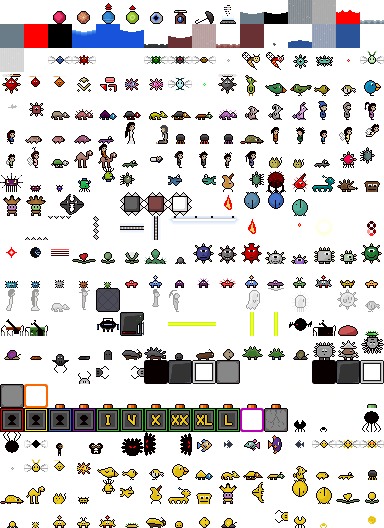
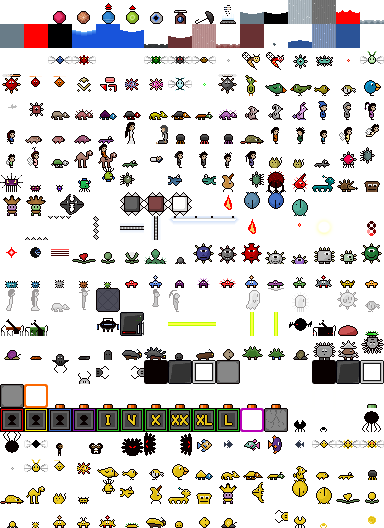
Fix waterfalls
Remove double transparency for waterfalls
Blend mode "add" for 1:23 waterfall
Take 1:5, 1:10, 1:12, 1:22 halos from KS source and add them as animations (also with "add" blend)
Remove old images
Refresh fake waterfalls for inactive but visible areas

Changed region(s): [[0.75, 0.0, 0.875, 0.0909], [0.5, 0.0303, 0.5625, 0.0909], [0.0, 0.0909, 0.0625, 0.1515]]

diff --git a/knytt/objects/GDKnyttObjectFactory.cs b/knytt/objects/GDKnyttObjectFactory.cs
@@ -90,7 +90,7 @@ public static class GDKnyttObjectFactory
         ObjectLookup[new KnyttPoint(1, 20)] = "Waterfall";
         ObjectLookup[new KnyttPoint(1, 21)] = "WaterBlock";
         ObjectLookup[new KnyttPoint(1, 22)] = "LiquidPool22";
-        ObjectLookup[new KnyttPoint(1, 23)] = "Waterfall";
+        ObjectLookup[new KnyttPoint(1, 23)] = "Waterfall23";
         ObjectLookup[new KnyttPoint(1, 24)] = "WaterBlock";
         ObjectLookup[new KnyttPoint(1, 25)] = "SwimScreen";
         ObjectLookup[new KnyttPoint(1, 26)] = "SwimZoneFull";
